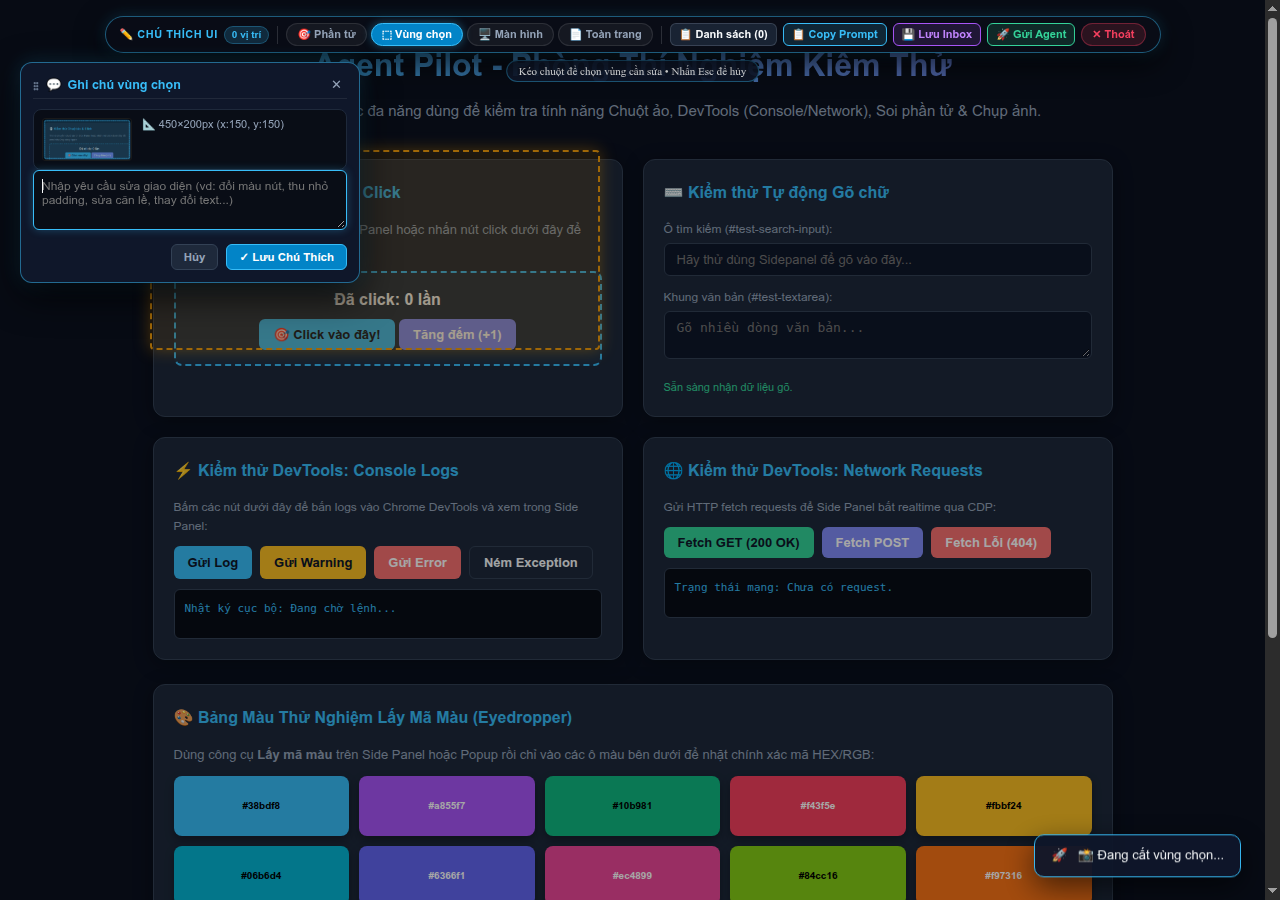
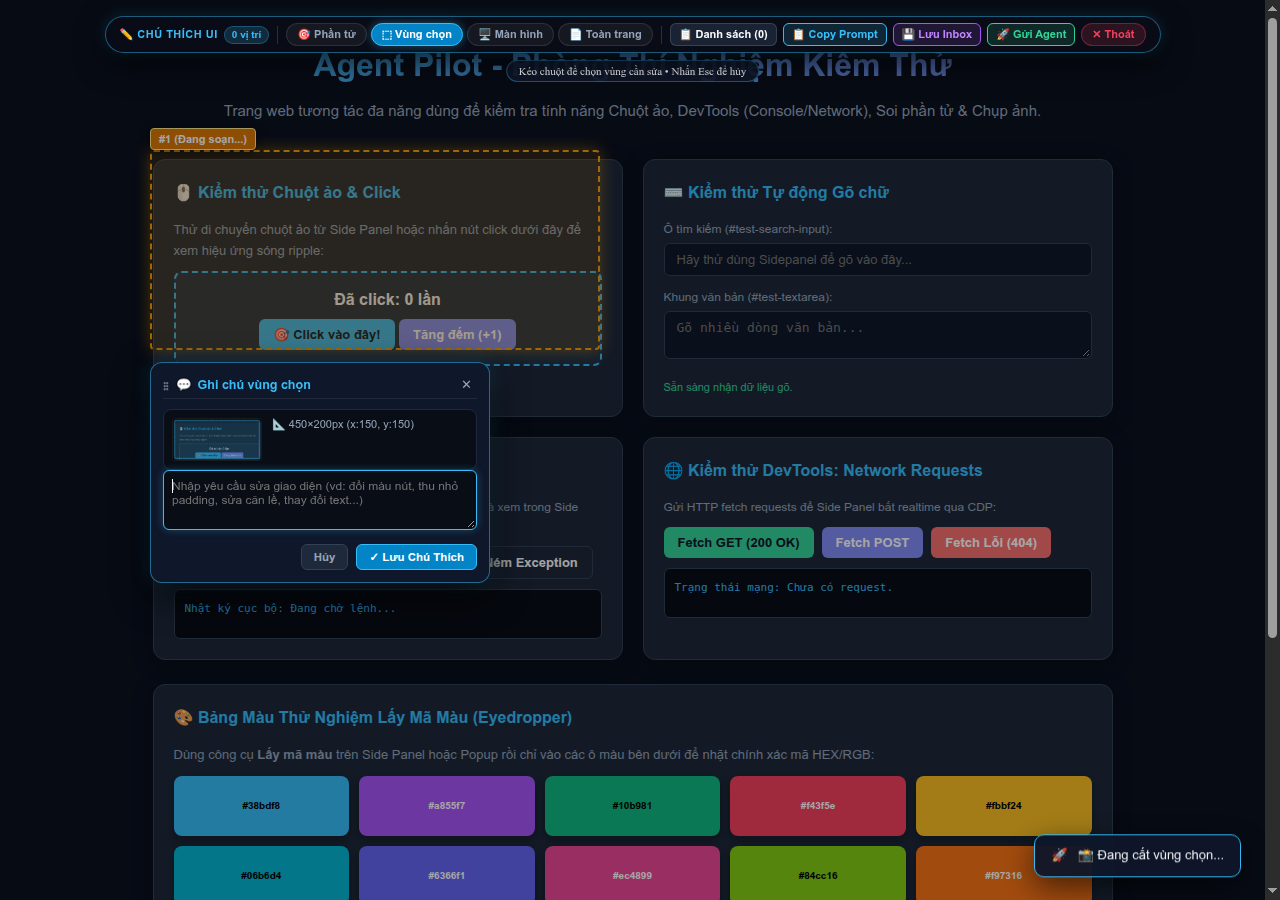
fix(feedback): resolve popover anchor positioning and viewport badge flipping

Changed region(s): [[0.0, 0.0622, 0.2812, 0.3422], [0.125, 0.4667, 0.4062, 0.6533], [0.125, 0.4044, 0.25, 0.4356]]

diff --git a/extensions/content/feedback-studio.js b/extensions/content/feedback-studio.js
@@ -565,7 +565,8 @@
     draftBox.style.width = `${clip.width}px`;
     draftBox.style.height = `${clip.height}px`;
 
-    draftBox.classList.toggle("flip-badge-inside", pageY < 28);
+    const viewportY = (clip.y !== undefined) ? clip.y : (pageY - window.scrollY);
+    draftBox.classList.toggle("flip-badge-inside", viewportY < 28);
     const badgeEl = draftBox.querySelector("#ap-draft-badge");
     if (badgeEl) {
       badgeEl.textContent = `#${itemNumber} (Đang soạn...)`;
@@ -618,7 +619,8 @@
       box.style.width = `${item.clip.width}px`;
       box.style.height = `${item.clip.height}px`;
 
-      if (pageY < 28) {
+      const viewportY = (item.clip.y !== undefined) ? item.clip.y : (pageY - window.scrollY);
+      if (viewportY < 28) {
         box.classList.add("flip-badge-inside");
       }
 
@@ -668,12 +670,16 @@
 
     metaEl.innerHTML = metaHtml;
 
-    // Position popover near anchor
-    let left = anchorRect.left || 20;
-    let top = (anchorRect.bottom || 50) + 12;
+    // Position popover near anchor (supports both DOMRect and {x, y, width, height})
+    const aLeft = anchorRect.left ?? anchorRect.x ?? 0;
+    const aTop = anchorRect.top ?? anchorRect.y ?? 0;
+    const aBottom = anchorRect.bottom ?? ((anchorRect.y !== undefined && anchorRect.height !== undefined) ? anchorRect.y + anchorRect.height : aTop + 40);
+
+    let left = aLeft;
+    let top = aBottom + 12;
 
     if (top + 260 > window.innerHeight) {
-      top = Math.max(10, (anchorRect.top || 50) - 270);
+      top = Math.max(10, aTop - 270);
     }
     if (left + 340 > window.innerWidth) {
       left = Math.max(10, window.innerWidth - 350);
